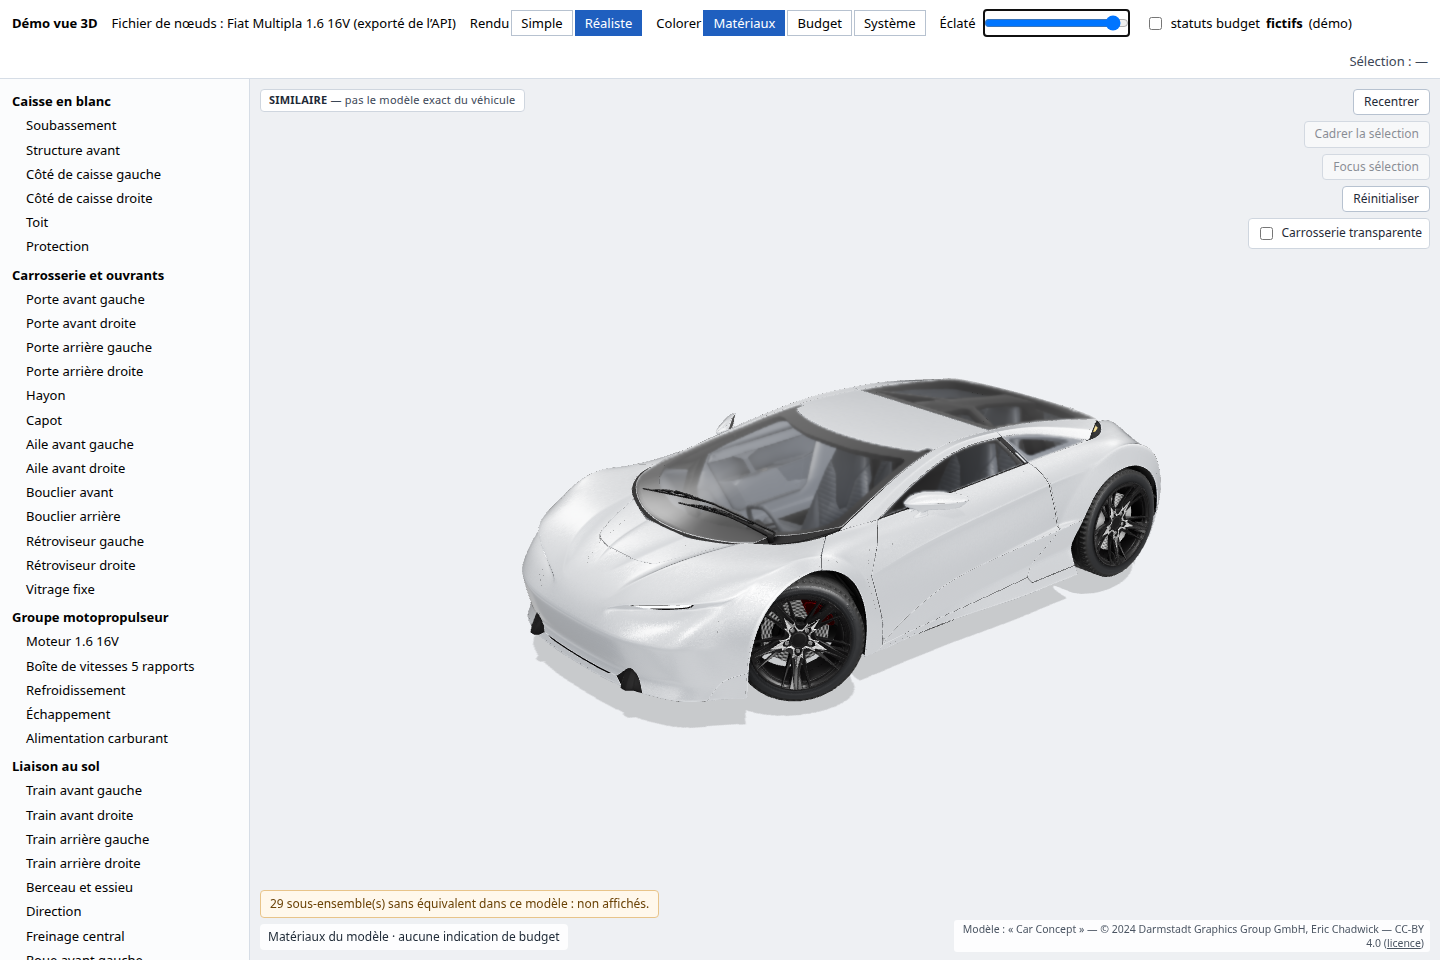
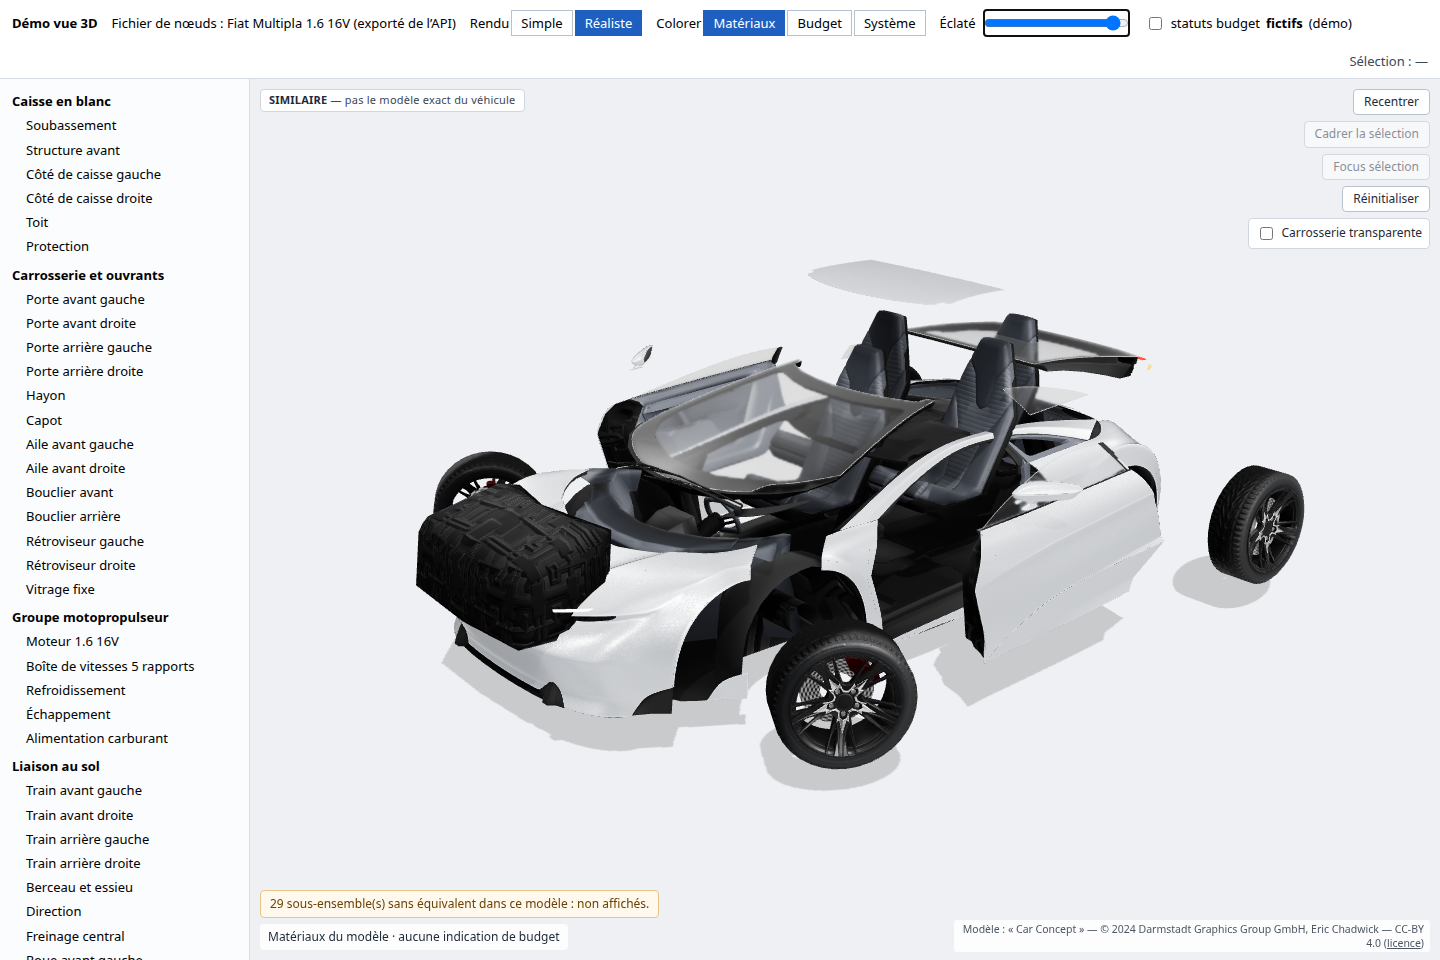
docs(3d): attendre la pose finale pour les preuves d’éclatement
Capture CarConcept corrigée après inspection, méthode reproductible et mesures de validation actualisées.

Changed region(s): [[0.2812, 0.25, 0.9062, 0.8438]]

diff --git a/3D_PROGRESS.md b/3D_PROGRESS.md
@@ -237,3 +237,15 @@ Rien de cela n'est annoncé comme corrigé. La définition de terminé du projet
   utilisateur `stp3d`, mot de passe de test `stp3d-test`, base `stp3d`, appliquer les migrations existantes,
   puis `make test DATABASE_URL='postgres://stp3d:stp3d-test@127.0.0.1:55439/stp3d?sslmode=disable'`.
 - Prochaine action dépendante inchangée : validation humaine de l'option 1 de l'ADR 0041.
+
+## Correction des preuves visuelles
+
+- Après inspection, une image CarConcept « éclatée » montrait encore le début de transition.
+  Capture refaite après comparaison à la pose assemblée ET attente de fin de l'animation, puis
+  inspectée : pièces effectivement séparées ; chevauchements toujours signalés, pas d'exactitude OEM.
+- Méthode sauvegardée dans `docs/3d/tools/capture_carconcept.mjs` (dépendance Playwright existante,
+  Vite dev et `make models` requis). Contrôle de syntaxe Node réussi. Le script de capture temporaire
+  utilisé pour cette recapture applique la même attente de pose finale.
+- Dernières mesures CarConcept dans le JSON : 13158 / 20938 ms dans cet environnement ; ce sont
+  des temps incluant initialisation, chargement et compilation WebGL, pas des garanties de performance.
+- Vite arrêté après recapture. Code produit et résultats fonctionnels inchangés.

diff --git a/docs/3d/VALIDATION.md b/docs/3d/VALIDATION.md
@@ -41,7 +41,8 @@ Documentation : `3D_PLAN.md` organise les étapes ; `3D_PROGRESS.md` consigne le
 `AUDIT.md` conserve le diagnostic initial ; `assets-manifest.json` inventorie les 418 types et sources ;
 `tools/audit_3d_assets.py` vérifie cet inventaire et `tools/test_audit_3d_assets.py` ses refus ;
 `audit-initial-backup.tar.gz` et `audit-backup-checksums.json` conservent les six fichiers originaux ;
-`captures/` porte les rendus et mesures ; `verification-pr.md` explique le résultat du harnais.
+`captures/` porte les rendus et mesures ; `tools/capture_carconcept.mjs` conserve la méthode de capture
+avec attente de la pose finale ; `verification-pr.md` explique le résultat du harnais.
 
 ## Pannes couvertes et vérification
 
